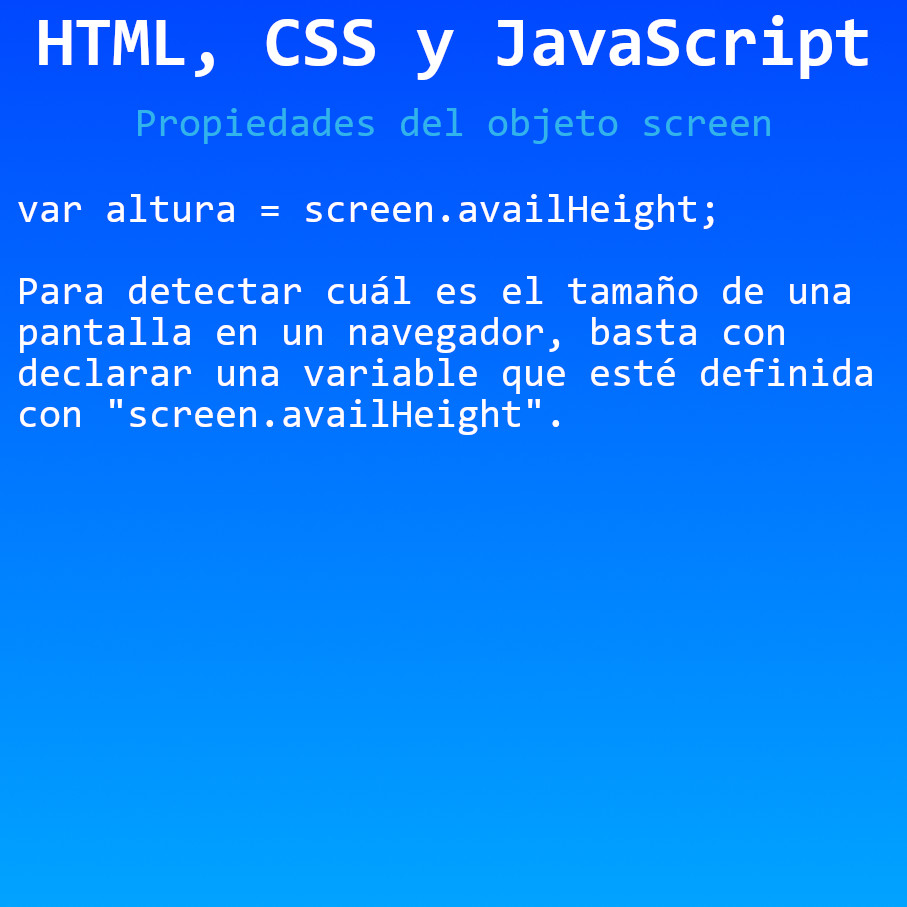
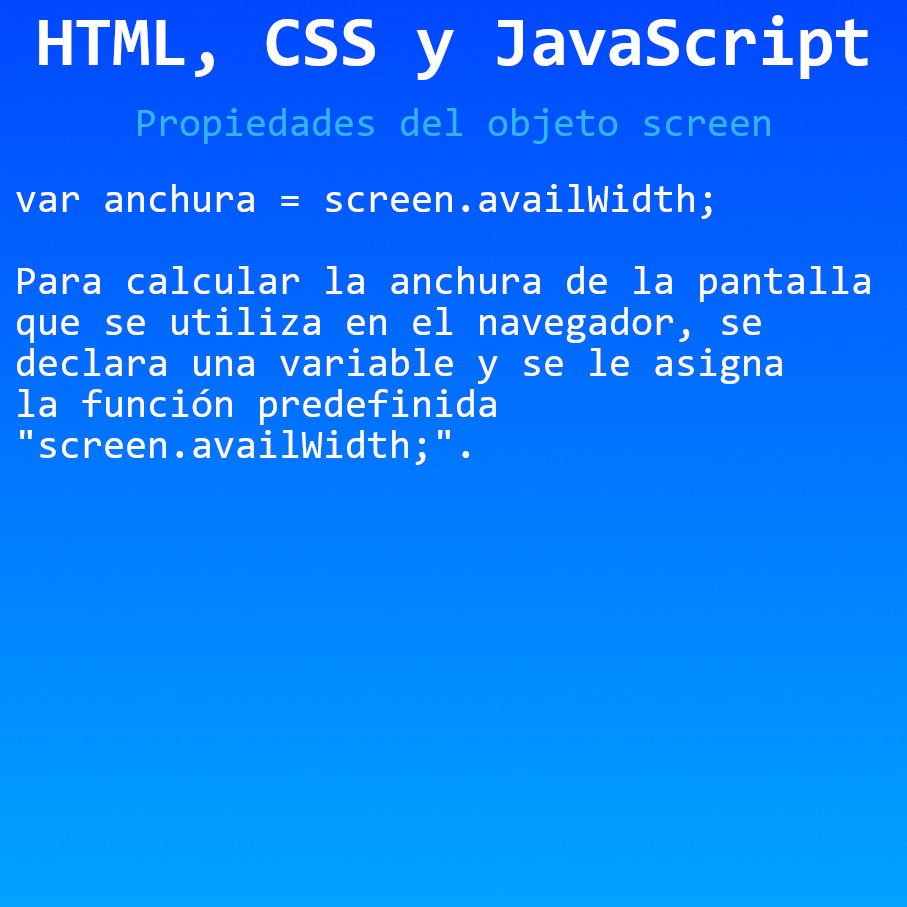
Propiedades del objeto screen
Propiedades del objeto screen en JavaScript

Changed region(s): [[0.0, 0.2778, 0.957, 0.5248], [0.0, 0.1852, 0.8026, 0.247]]

diff --git a/HTML, CSS y JavaScript/Propiedades del objeto screen/js/funciones.js b/HTML, CSS y JavaScript/Propiedades del objeto screen/js/funciones.js
@@ -4,3 +4,9 @@ var altura = screen.availHeight;
 document.write("Altura: "+altura+"px.");
 // SEPARACIÓN
 document.write("<hr>");
+// AVERIGUAR ANCHO DE PANTALLA DEL NAVEGADOR
+var anchura = screen.availWidth;
+// mostrar en pantalla
+document.write("Anchura: "+anchura+"px.");
+// SEPARACIÓN
+document.write("<hr>");
